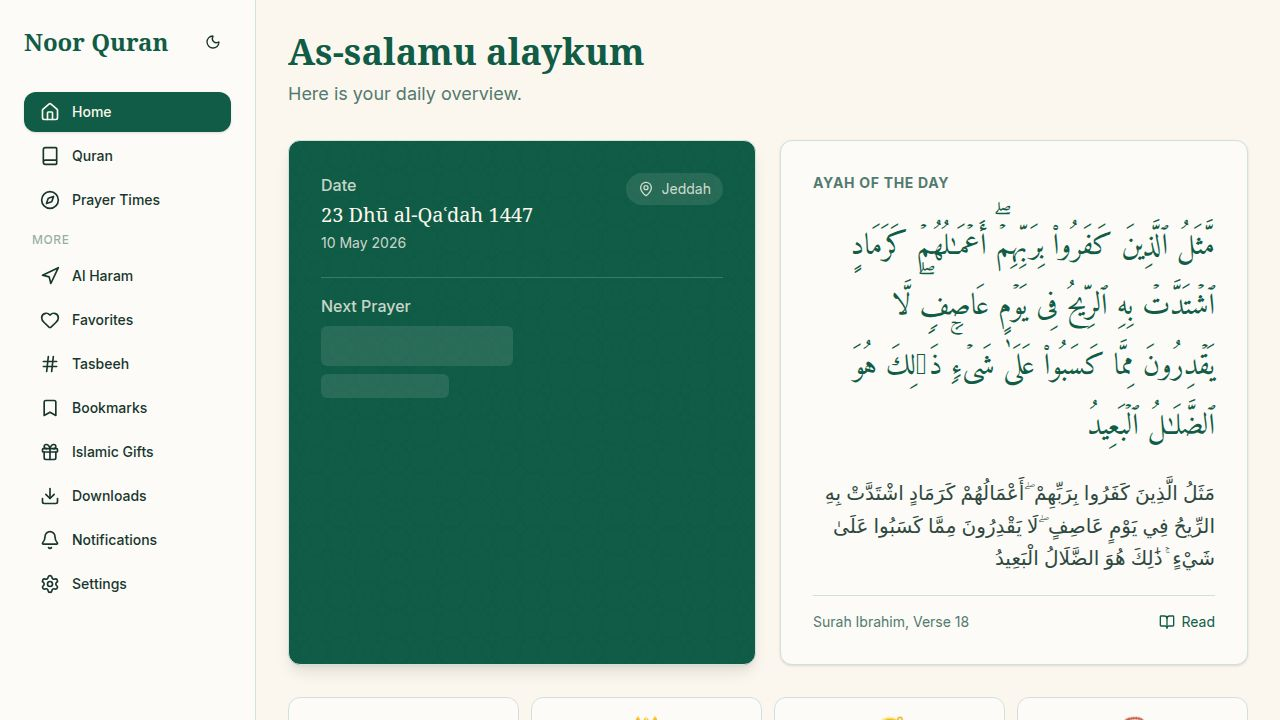
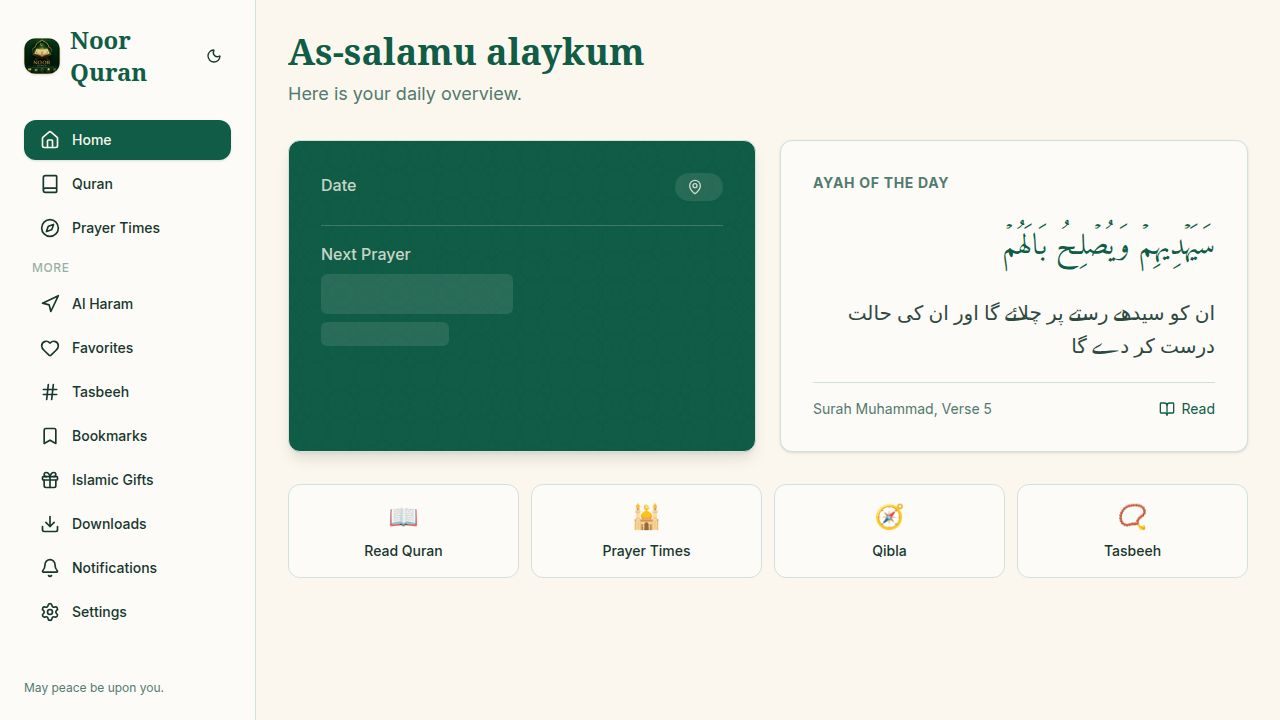
Improve Quran audio playback order and stability
Correct the audio playback sequence for dual-mode (Arabic and translation) by ensuring Arabic recitation always plays before the translation, and update status labels to accurately reflect this order.

Replit-Commit-Author: Agent
Replit-Commit-Session-Id: 8b78380b-f781-4bd2-aa41-ef57e8796f42
Replit-Commit-Checkpoint-Type: full_checkpoint
Replit-Commit-Event-Id: 5604a16e-c9fb-4d6f-be67-1e70dc150436
Replit-Commit-Screenshot-Url: https://storage.googleapis.com/screenshot-production-us-central1/bd238ef0-1b86-4eea-96d7-950cea5f63f3/8b78380b-f781-4bd2-aa41-ef57e8796f42/fOVQs9y
Replit-Helium-Checkpoint-Created: true

diff --git a/artifacts/islamic-app/src/pages/surah.tsx b/artifacts/islamic-app/src/pages/surah.tsx
@@ -461,16 +461,18 @@ export function SurahReader() {
       }
 
     } else {
-      // "both" — TTS translation first, then Arabic CDN
-      if (ttsOk) {
-        playTTSPhase(index, gen, () => {
-          // Re-check gen before chaining to Arabic phase
-          if (!cancelledRef.current && playGenRef.current === gen)
-            playArabicPhase(index, gen, onComplete);
-        });
-      } else {
-        playArabicPhase(index, gen, onComplete);
-      }
+      // "both" — Arabic CDN first, THEN translation TTS
+      // Islamic order: recite the ayah in Arabic, then explain in translation.
+      playArabicPhase(index, gen, () => {
+        // Arabic finished — chain TTS only if still valid and TTS is available
+        if (!cancelledRef.current && playGenRef.current === gen) {
+          if (ttsOk) {
+            playTTSPhase(index, gen, onComplete);
+          } else {
+            onComplete(); // TTS unavailable — treat Arabic-only as complete
+          }
+        }
+      });
     }
   }, [advanceOrStop, playArabicPhase, playTTSPhase, teardownAudio, clearRetryTimer]);
 
@@ -857,7 +859,7 @@ function AudioPlayer({
     ? "Al-Afasy recitation"
     : audioMode === "translation"
     ? `${langShort} translation`
-    : "Translation + Recitation";
+    : "Recitation + Translation";
 
   const statusLine = retrying
     ? "Reconnecting…"
@@ -872,7 +874,7 @@ function AudioPlayer({
     : isPlaying && audioMode === "translation"
     ? `${langShort} TTS`
     : isPlaying && audioMode === "both"
-    ? ttsPhase === "tts" ? `${langShort} TTS → Arabic next` : "Arabic CDN"
+    ? ttsPhase === "arabic" ? `Arabic CDN · ${langShort} next` : `${langShort} TTS`
     : "";
 
   return (